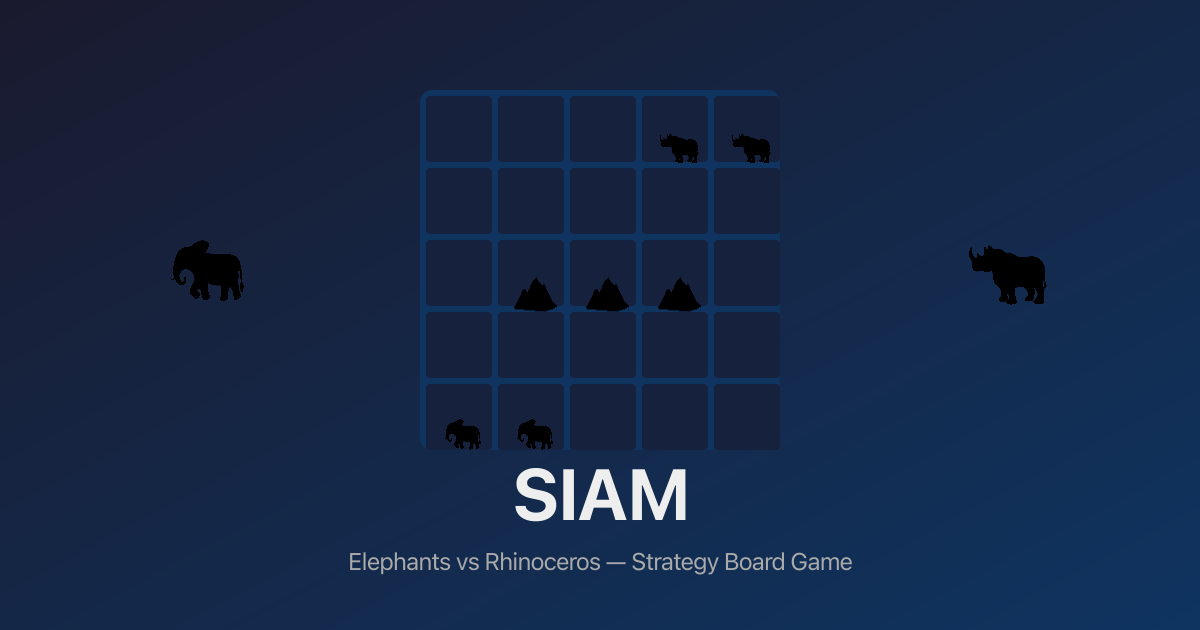
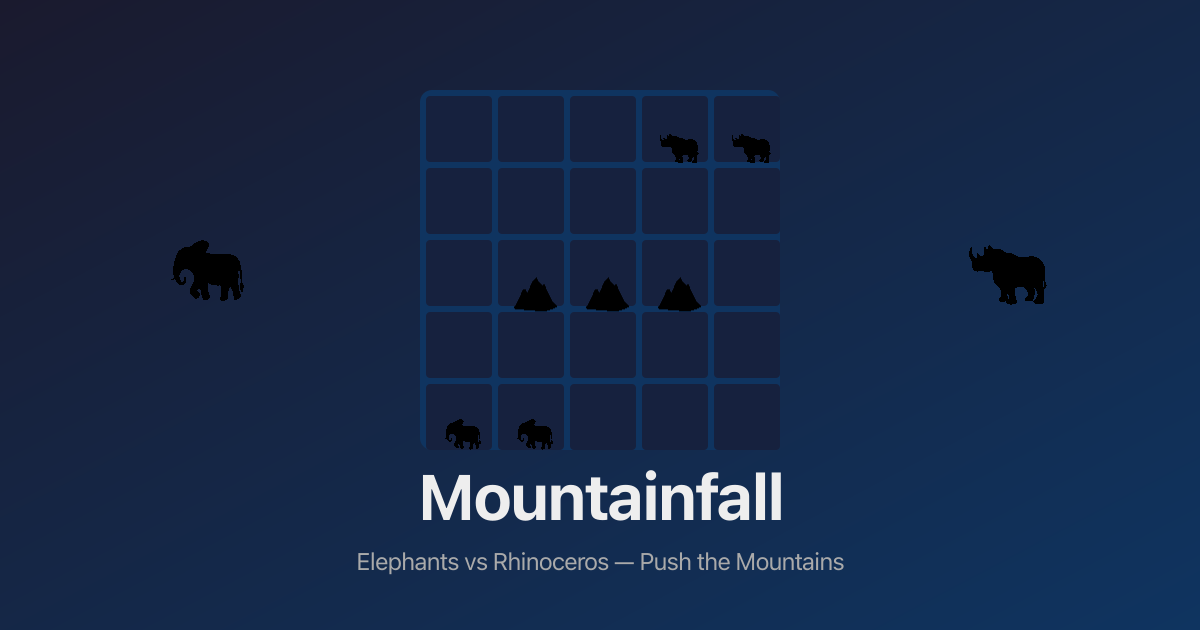
Rename to Mountainfall across UI, SEO, OG image, and docs

Changed region(s): [[0.3392, 0.7238, 0.6783, 0.8444], [0.2775, 0.8746, 0.7092, 0.9048]]

diff --git a/index.html b/index.html
@@ -3,26 +3,26 @@
 <head>
   <meta charset="utf-8">
   <meta name="viewport" content="width=device-width, initial-scale=1.0">
-  <title>SIAM — Elephants vs Rhinoceros | Strategy Board Game</title>
-  <meta name="description" content="Play SIAM online — a strategic board game where elephants and rhinoceros push mountains off the board. Two-player, runs in your browser with Prolog AI engine.">
-  <meta name="keywords" content="SIAM, board game, strategy game, elephants, rhinoceros, Prolog, browser game, two-player">
-  <meta name="author" content="SIAM Game">
+  <title>Mountainfall — Elephants vs Rhinoceros | Strategy Board Game</title>
+  <meta name="description" content="Play Mountainfall online — a strategic board game where elephants and rhinoceros push mountains off the board. Two-player, runs in your browser.">
+  <meta name="keywords" content="Mountainfall, SIAM, board game, strategy game, elephants, rhinoceros, browser game, two-player">
+  <meta name="author" content="Mountainfall">
   <meta name="robots" content="index, follow">
   <meta name="theme-color" content="#1a1a2e">
   <!-- Open Graph -->
   <meta property="og:type" content="website">
-  <meta property="og:title" content="SIAM — Elephants vs Rhinoceros">
-  <meta property="og:description" content="Strategic board game where elephants and rhinoceros push mountains. Play in your browser!">
+  <meta property="og:title" content="Mountainfall — Elephants vs Rhinoceros">
+  <meta property="og:description" content="Push mountains off the board with your elephants or rhinoceros. Play in your browser!">
   <meta property="og:image" content="og-image.png">
   <meta property="og:image:width" content="1200">
   <meta property="og:image:height" content="630">
-  <meta property="og:image:alt" content="SIAM board game with elephants, rhinoceros, and mountains on a 5x5 grid">
+  <meta property="og:image:alt" content="Mountainfall board game with elephants, rhinoceros, and mountains on a 5x5 grid">
   <!-- Twitter Card -->
   <meta name="twitter:card" content="summary_large_image">
-  <meta name="twitter:title" content="SIAM — Elephants vs Rhinoceros">
-  <meta name="twitter:description" content="Strategic board game where elephants and rhinoceros push mountains. Play in your browser!">
+  <meta name="twitter:title" content="Mountainfall — Elephants vs Rhinoceros">
+  <meta name="twitter:description" content="Push mountains off the board with your elephants or rhinoceros. Play in your browser!">
   <meta name="twitter:image" content="og-image.png">
-  <meta name="twitter:image:alt" content="SIAM board game with elephants, rhinoceros, and mountains on a 5x5 grid">
+  <meta name="twitter:image:alt" content="Mountainfall board game with elephants, rhinoceros, and mountains on a 5x5 grid">
   <style>
     * { margin: 0; padding: 0; box-sizing: border-box; }
     body {
@@ -413,7 +413,7 @@ init_jeu :- plateauDepart(P), retractall(etat_courant(_)), assertz(etat_courant(
 
 <div id="app">
   <div id="intro">
-    <h1>SIAM</h1>
+    <h1>Mountainfall</h1>
     <p class="intro-subtitle">Elephants vs Rhinoceros</p>
     <p class="intro-desc">Two players take turns placing and moving their animals on a 5&times;5 board. Three mountains sit in the center. Your goal: <strong>push a mountain off the board</strong>.</p>
     <details id="rules-details">

diff --git a/README.md b/README.md
@@ -1,6 +1,8 @@
-# SIAM — Elephants vs Rhinoceros
+# Mountainfall
 
-A browser-based implementation of the SIAM board game. Two players take turns placing and moving their animals on a 5x5 board, trying to push one of three mountains off the edge.
+> Elephants vs Rhinoceros — Push the Mountains
+
+A browser-based implementation of the [SIAM](https://boardgamegeek.com/boardgame/32077/siam) board game. Two players take turns placing and moving their animals on a 5x5 board, trying to push one of three mountains off the edge.
 
 ## Play
 

diff --git a/CLAUDE.md b/CLAUDE.md
@@ -1,4 +1,4 @@
-# SIAM — Project Guide
+# Mountainfall — Project Guide
 
 ## Architecture
 
